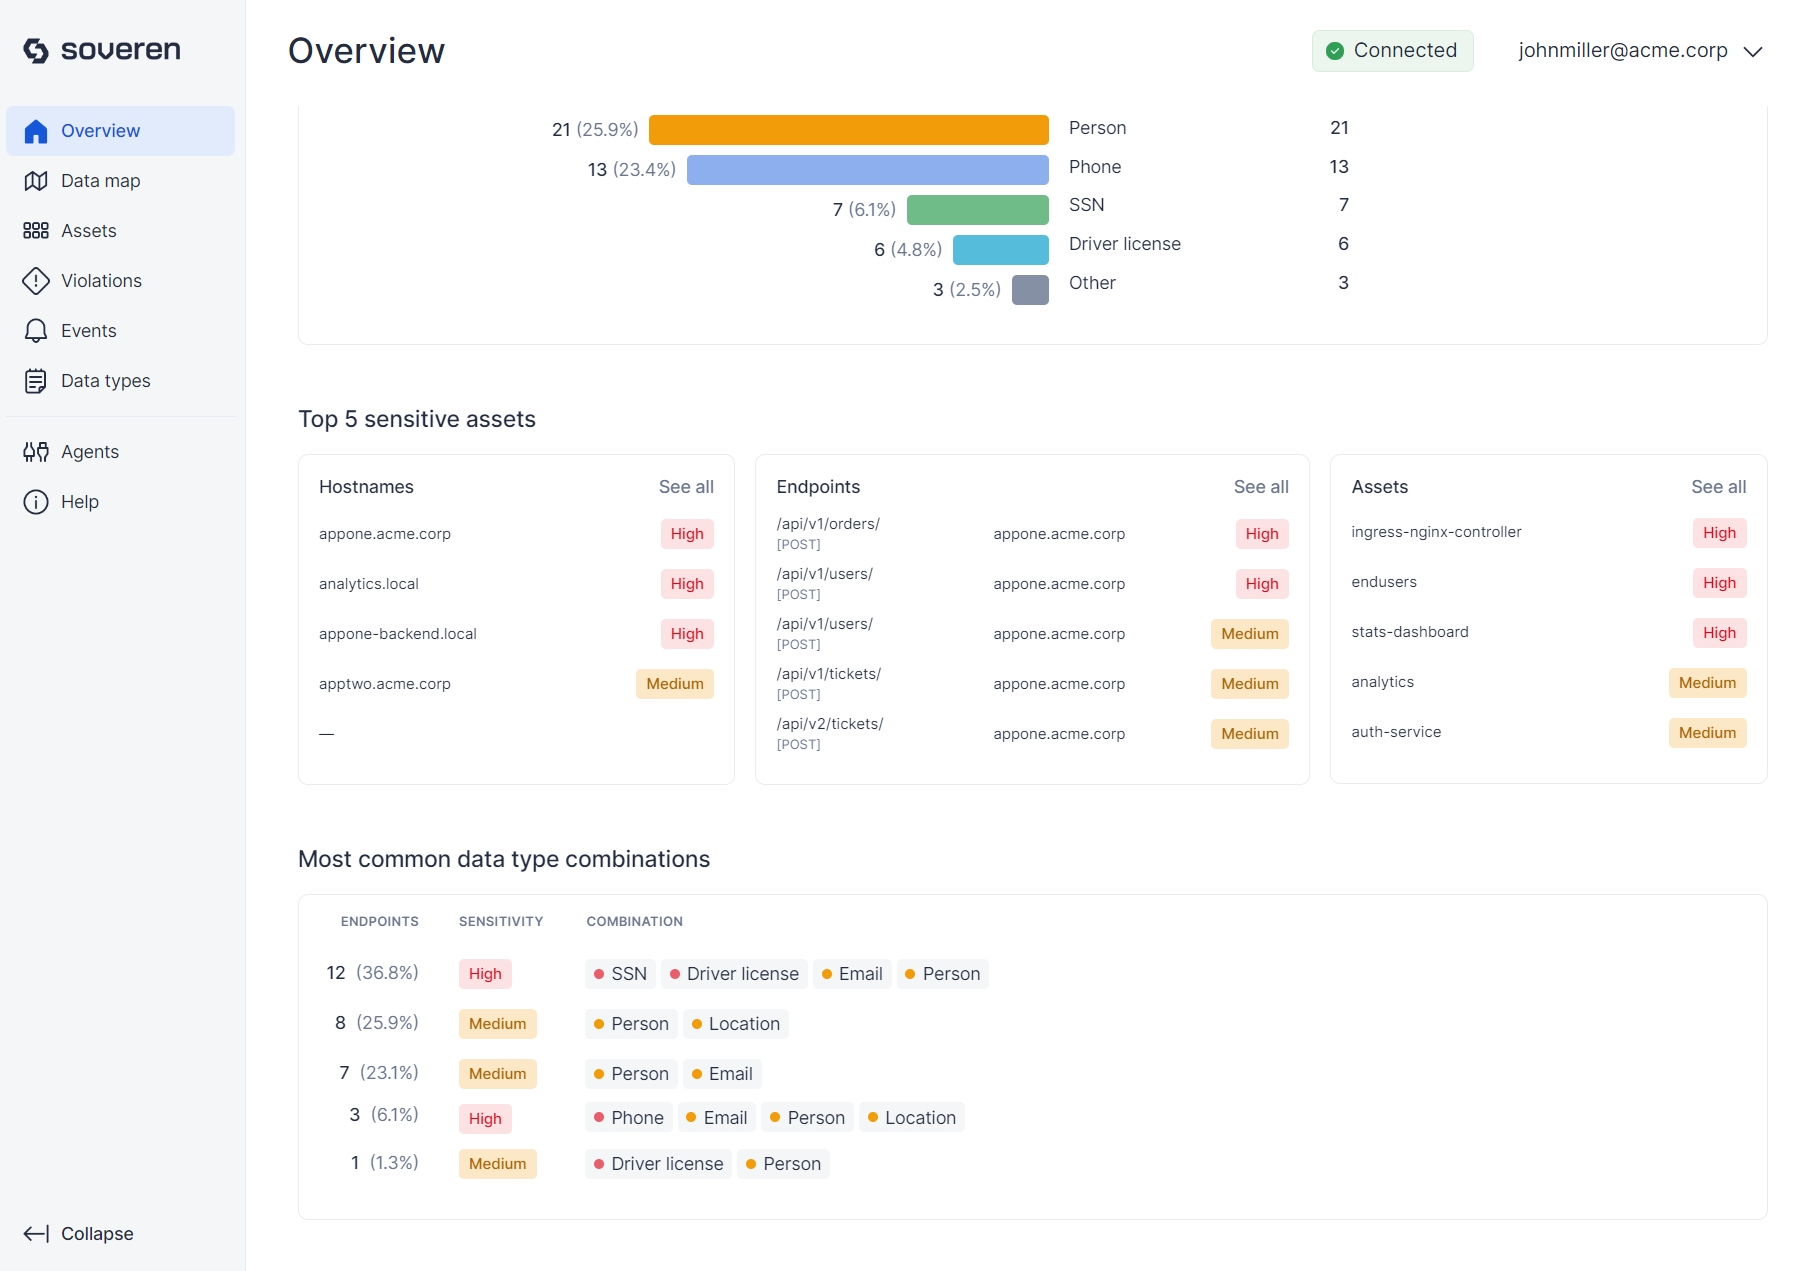
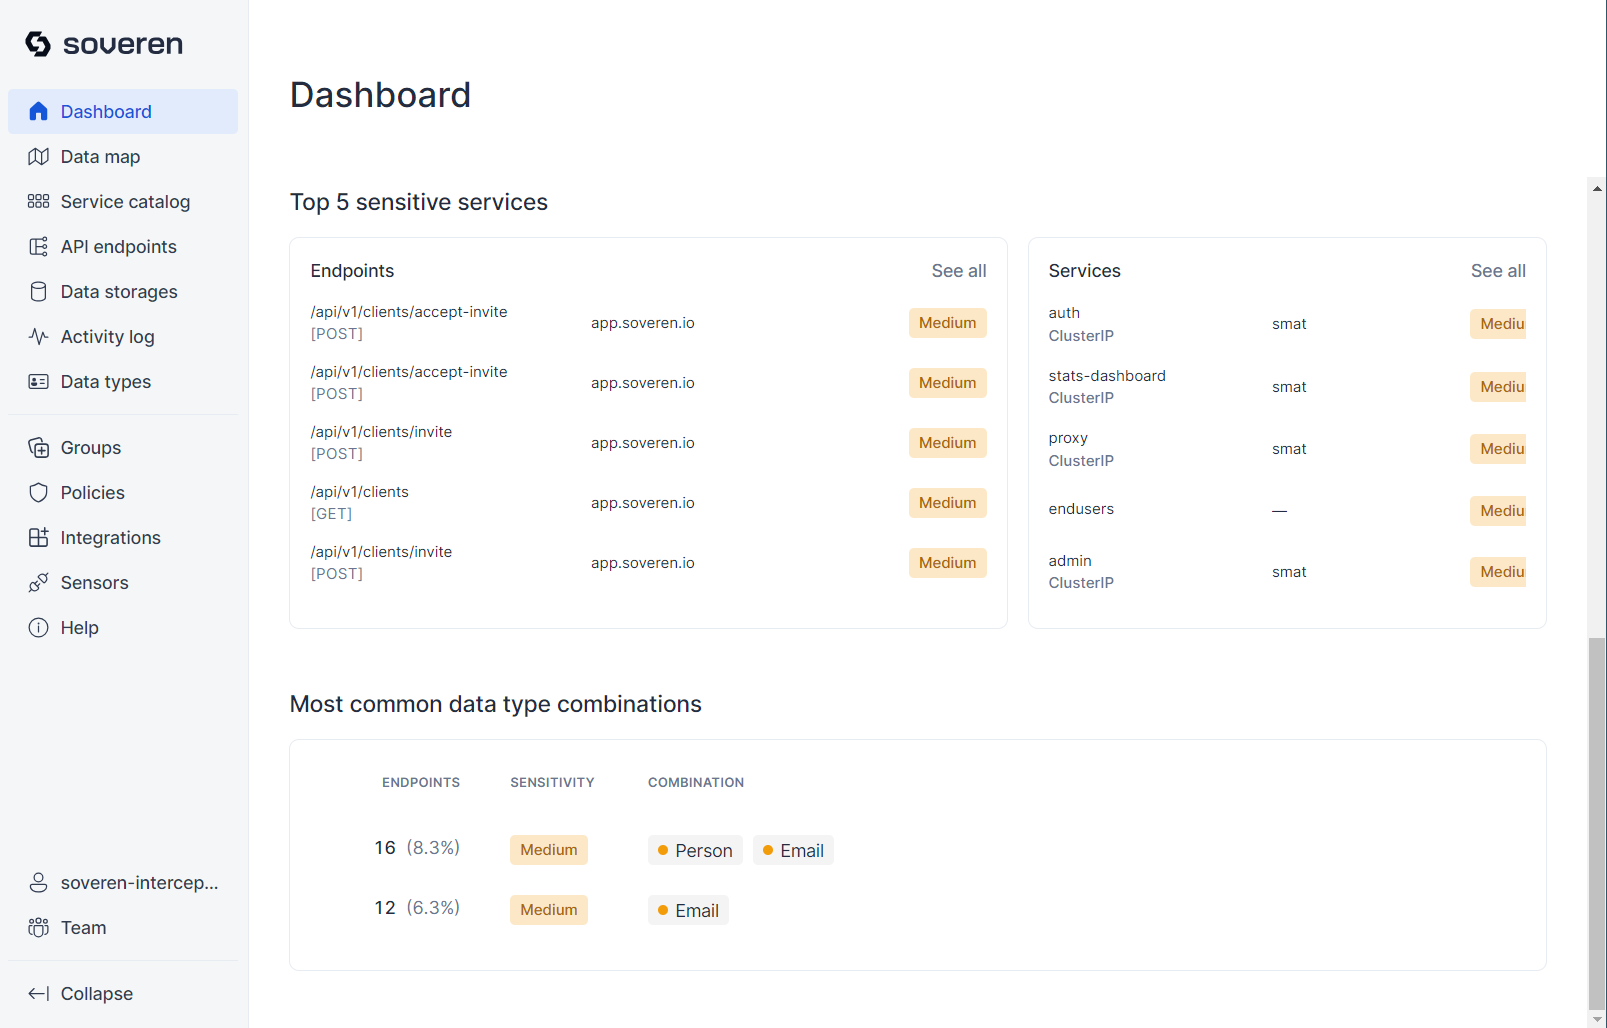
dashboards overview update: summary, services, endpoints

diff --git a/docs/user-guide/overview.md b/docs/user-guide/overview.md
@@ -2,45 +2,81 @@
 
 ## Dashboards summary
 
-Soveren provides [a number of dashboards](https://app.soveren.io/). Most of them should be self explanatory, but in a nutshell here's what you find on them. Pictures below are just to convey the general idea, they are constantly updated along with all the product enhancements that we are doing.
+Soveren provides [several dashboards](https://app.soveren.io/), most of which are self-explanatory. Here is a brief summary of what you can find on them. The pictures below are examples to convey the general idea; they are regularly updated to reflect the ongoing product enhancements.
 
 ### Overview
 
-The [Overview](https://app.soveren.io/overview) provides you with [a 7-day summary stats](#how-soveren-works-with-your-data) about what has happened in your infrastructure. It shows the latest important events, how many events there were during the period, what data types were discovered, the most sensitive [assets](#assets) and the most common [data type](#data-types) combinations.
+The [Overview](https://app.soveren.io/overview) offers a [7-day summary of statistics](#how-soveren-works-with-your-data), highlighting recent activities in your infrastructure. It displays important recent events, the number of events during the period, discovered data types, the most sensitive [services](#service-catalog), and the most common [data type](#data-types) combinations.
 
-The numbers show how many events or assets or endpoints and such are there currently, and they also display the changes with respect to the [previous period](#how-soveren-works-with-your-data).
+The statistics show the current counts of events, services, endpoints, etc., and highlight changes compared to the [previous period](#how-soveren-works-with-your-data).
 
-The sensitivity of each found data type is shown with color. Red means pretty sensitive if disclosed, yellow means not so much, green means little to worry about _unless_ combined with some other data types leading to increased sensitivity of a combination.
+The sensitivity of each discovered data type is indicated by color: red signifies high sensitivity, yellow indicates moderate sensitivity, and green suggests low sensitivity — unless combined with other data types, increasing the overall sensitivity.
 
 ![Overview: summary](../../img/user-guide/overview-01.png "Overview: summary")
+
 ![Overview: assets and type combinations](../../img/user-guide/overview-02.png "Overview: assets and type combinations")
 
-### Assets
+### Services, flows and endpoints
 
-[Assets](https://app.soveren.io/data-inventory/) are places of data concentration that Soveren discovers in your infrastructure while looking into the traffic. They are communicating to each other through data flows which may or may not contain some sensitive data in them.
+#### Service catalog
 
-There are several types of assets: internal and external ones, and endpoints. Internal assets are found within your Kubernetes cluster, whereas external ones are located outside of it.
+Soveren builds a [service catalog](https://app.soveren.io/service-catalog/) while scanning traffic. This catalog includes services communicating through data flows, which may contain sensitive information. These services are not only data concentration points but are also actively interacting in real-time.
 
-An example of the internal assets view:
+For instance, within your Kubernetes cluster, you might find services like:
 
-![Internal assets](../../img/user-guide/assets-01.png "Internal assets")
+![Services](../../img/user-guide/services.png "Services")
 
-An example of an external asset would be some third-party data provider or consumer that you communicate with under some data processing agreement. Or they can be robots which are scanning your resources from time to time (e.g. search engine crawlers), or they can be external users looking into your apps from their browsers or (mobile) applications.
+There are also external connections that these services make with third parties, such as data providers or consumers, under data processing agreements. Additionally, there might be bots scanning your resources periodically (e.g., search engine crawlers), or users accessing your applications through web browsers or mobile apps.
 
-An example of the external assets view:
+External connection parties can also be viewed as services, but with different properties:
 
-![External assets](../../img/user-guide/assets-02.png "External assets")
+![External connections](../../img/user-guide/external-connections.png "External connections")
 
-Endpoints are essentially the APIs that are exposed or consumed by some other assets. They are points to which other assets connect and send or get some data, including sentitive data.
+### Services details: summary, flows and endpoints
 
-An example of the endpoints view:
+You can delve into individual services to examine associated data flows and API endpoints.
 
-![Endpoints](../../img/user-guide/assets-03.png "Endpoints")
+The summary provides basic information about the service:
 
-You can further dive into individual assets to check the data flows and endpoints associated with them:
+![Service summary info](../../img/user-guide/service-summary.png "Service summary info")
 
-![Asset flows](../../img/user-guide/assets-04.png "Asset flows")
-![Asset endpoints](../../img/user-guide/assets-05.png "Asset endpoints")
+Data flows represent interactions with other services:
+
+![Service data flows](../../img/user-guide/service-data-flows.png "Service data flows")
+
+Each data flow entails multiple interactions with various API endpoints:
+
+![Service data flow details](../../img/user-guide/service-data-flow-details.png "Service data flow details")
+
+The service lists API endpoints that are actively called by other services:
+
+![Service API endpoints](../../img/user-guide/service-api-endpoints.png "Service API endpoints")
+
+Similar views are available for external connections:
+
+Summary of the external connection:
+
+![External connection summary info](../../img/user-guide/external-connection-summary.png "External connection summary info")
+
+Data flows in the external connection represent its interactions with services:
+
+![External connection data flows](../../img/user-guide/external-connection-data-flows.png "External connection data flows")
+
+Each external connection data flow also involves multiple interactions with different API endpoints:
+
+![External connection data flow details](../../img/user-guide/external-connection-data-flow-details.png "External connection data flow details")
+
+Recipients of the external connection include IP addresses and user agents that facilitate communication between services and the external connection:
+
+![External connection recipients](../../img/user-guide/external-connection-recipients.png "External connection recipients")
+
+### API endpoints
+
+API endpoints are essentially interfaces exposed or utilized by services for data exchange, including sensitive data.
+
+The APIs of individual services are accessible in their detailed views. For convenience, we also present a comprehensive list of all API endpoints identified by Soveren in a separate view:
+
+![API endpoints](../../img/user-guide/api-endpoints.png "API endpoints")
 
 ### Data map
 
